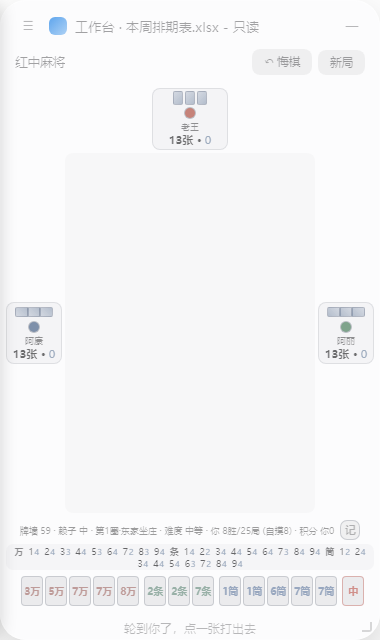
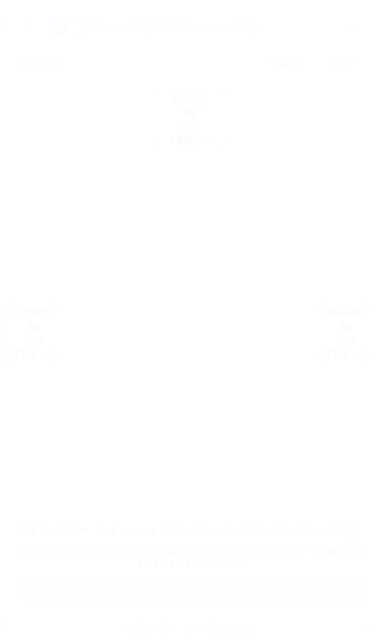
feat: 麻将牌面重绘 + 听牌引导高亮
- 牌面重绘：纯文字 → 数字+花色图案（万=◎/条=┃/筒=●，Unicode 矢量符号无素材文件），红中=大'中'，保留低饱和玻璃配色
- 听牌引导：轮到玩家且听牌时，可胡的牌在手牌+牌河低饱和金边高亮，一眼看到差哪张
- 修复 TDZ/重复声明：tenpaiSet 移到 render 开头（牌河先渲染），去掉重复 me 声明
- 测试：单测 16/16 · 听牌 4/4 · 模拟 20 局 19胡1流局 0错 · 冒烟全绿（patTiles=14 牌面层全生效，tenpai=8 听牌高亮触发）

diff --git a/renderer/games/mahjong.js b/renderer/games/mahjong.js
@@ -470,7 +470,10 @@
     function tileEl(t, cls) {
       const d = document.createElement('div');
       d.className = 'mj-tile' + (cls ? ' ' + cls : '') + ' ' + (t === LAIZI ? 'lz' : 's' + tileSuit(t));
-      d.textContent = tileLabel(t);
+      // 牌面重绘：数字 + 花色图案（万=◎ 条=┃ 筒=●），红中=中
+      const num = t === LAIZI ? '' : (t % 9 + 1);
+      const pat = t === LAIZI ? '中' : (['◎', '┃', '●'][tileSuit(t)]);
+      d.innerHTML = '<span class="mj-num">' + num + '</span><span class="mj-pat">' + pat + '</span>';
       return d;
     }
 
@@ -545,6 +548,12 @@
       if (!els.wrap) return;
       // 兜底：非结算面板显示中时，重绘前隐藏（防止残留）
       if (els.result && !els.result.hidden && !resultShowing) els.result.hidden = true;
+      // 听牌引导：轮到玩家且听牌时，可胡的牌集合（牌河/手牌高亮用）
+      const tenpaiSet = new Set();
+      if (phase === 'turn' && turnIdx === 0) {
+        const tp = listTenpai(players[0]);
+        if (tp.length) tp.forEach(x => { if (x.t >= 0) tenpaiSet.add(x.t); });
+      }
       // 四方位对手：座位 1=左(下家) 2=上(对面) 3=右(上家)
       [[1, els.left], [2, els.top], [3, els.right]].forEach(([s, el]) => {
         if (!el) return;
@@ -578,7 +587,8 @@
         z.className = 'mj-zone z' + s;
         zones[s].forEach((x, i) => {
           const isLast = i === zones[s].length - 1 && s === lastSeat && phase !== 'over';
-          z.appendChild(tileEl(x.t, 'sm' + (x.s === 0 ? ' mine' : '') + (isLast ? ' fresh pop' : '')));
+          const hint = tenpaiSet.has(x.t) ? ' hint' : '';
+          z.appendChild(tileEl(x.t, 'sm' + (x.s === 0 ? ' mine' : '') + (isLast ? ' fresh pop' : '') + hint));
         });
         els.poolIn.appendChild(z);
       });
@@ -619,7 +629,8 @@
       });
       groups.forEach(g => g.sort((a, b) => a.t - b.t));
       const mkTile = (t, i, cls) => {
-        const d = tileEl(t, cls + (canDiscard ? ' pick' : ''));
+        const hint = tenpaiSet.has(t) ? ' hint' : '';
+        const d = tileEl(t, cls + (canDiscard ? ' pick' : '') + hint);
         if (canDiscard) {
           d.addEventListener('click', () => {
             undoStack.push(snapshot());
@@ -973,6 +984,8 @@
           counterOn: counterOn,
           counterTiles: els.counter ? els.counter.querySelectorAll('.ct-t').length : 0,
           claimBtnText: els.actions ? (els.actions.querySelector('.mj-btn.no') || {}).textContent : '',
+          patTiles: document.querySelectorAll('.mj-tile .mj-pat').length,
+          hintTiles: document.querySelectorAll('.mj-tile.hint').length,
         });
         window.__mjDiscard = (i) => {
           if (phase !== 'turn' || turnIdx !== 0) return 'not-your-turn';

diff --git a/renderer/glass.css b/renderer/glass.css
@@ -940,3 +940,31 @@ html, body {
   .mj-handrow { min-height: 34px; gap: 5px; }
   .mj-counter { font-size: 8.5px; padding: 1px 6px; }
 }
+
+/* ---------- 牌面重绘：数字 + 花色图案 + 听牌引导 ---------- */
+.mj-tile {
+  flex-direction: column; gap: 0;
+  position: relative;
+  line-height: 1;
+}
+.mj-tile .mj-num {
+  font-size: 12px; font-weight: 600;
+  line-height: 1.05;
+}
+.mj-tile .mj-pat {
+  font-size: 9px; line-height: 1;
+  opacity: 0.72;
+}
+.mj-tile.sm .mj-num { font-size: 9px; }
+.mj-tile.sm .mj-pat { font-size: 7px; }
+.mj-tile.lz .mj-pat {
+  font-size: 13px; opacity: 1;
+  font-weight: 600;
+}
+/* 听牌引导：可胡的牌高亮（低饱和金边 + 微光，摸鱼不扎眼） */
+.mj-tile.hint {
+  border-color: rgba(186, 138, 60, calc(0.5 + 0.35 * var(--glass-alpha)));
+  box-shadow: 0 0 0 1px rgba(186, 138, 60, calc(0.3 + 0.28 * var(--glass-alpha)));
+  background: rgba(186, 138, 60, calc(0.08 + 0.12 * var(--glass-alpha)));
+}
+.mj-tile.hint .mj-num { color: rgba(168, 130, 60, calc(0.55 + 0.42 * var(--stone-ink))); }

diff --git a/README.md b/README.md
@@ -16,7 +16,7 @@
   - **连连看**：BFS 寻路（≤2 转折），路径 SVG 折线高亮，无解自动重排剩余方块
   - **2048**：鼠标拖拽 / 方向键 / WASD 三种输入，灰度梯度配色
   - **扫雷**：左挖右旗，首挖必安全（首点+8 邻域不布雷），洪水扩散，数字低饱和配色
-  - **红中麻将**：合肥规则 112 张（万筒条×4 + 红中×4），红中=赖子百搭，无吃只碰杠，**只准自摸胡（杠上开花算自摸）**，3 个本地 AI + 大模型出牌双模式，胡牌判定带赖子回溯拆解（15 项单测）；**碰/杠 toast 动画 + 我的副露区 + 胡牌定格面板 + 听牌提示 + 玩家暗杠/补杠 + 出牌飞行动画 + 手牌花色分区 + 一圈四局轮庄 + 本地对局统计 + 完整计番（含七对/龙七对）与积分结算 + 四方桌布局 + AI 防喂牌 + 自摸手动点胡 + 一圈战绩结算面板 + 记牌器（各家已出牌余量） + 小屏自适应**
+  - **红中麻将**：合肥规则 112 张（万筒条×4 + 红中×4），红中=赖子百搭，无吃只碰杠，**只准自摸胡（杠上开花算自摸）**，3 个本地 AI + 大模型出牌双模式，胡牌判定带赖子回溯拆解（15 项单测）；**碰/杠 toast 动画 + 我的副露区 + 胡牌定格面板 + 听牌提示 + 玩家暗杠/补杠 + 出牌飞行动画 + 手牌花色分区 + 一圈四局轮庄 + 本地对局统计 + 完整计番（含七对/龙七对）与积分结算 + 四方桌布局 + AI 防喂牌 + 自摸手动点胡 + 一圈战绩结算面板 + 记牌器（各家已出牌余量） + 小屏自适应 + 牌面重绘（万◎/条┃/筒●）+ 听牌引导高亮**
 - **悔棋**：撤销最近一步（vs-AI 棋类撤玩家+AI 各一步；单人游戏撤单步）
 - **三档难度**：每个游戏都映射（棋类走 AI 深度，单人游戏走棋盘大小 / 雷数）
 - **本地 AI + 大模型双模式**（仅五子棋 / 象棋，无 AI 游戏自动隐藏此控件）：
